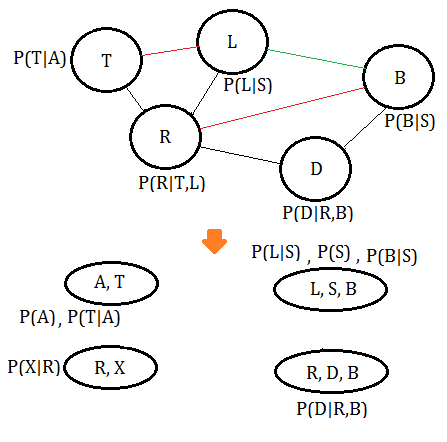
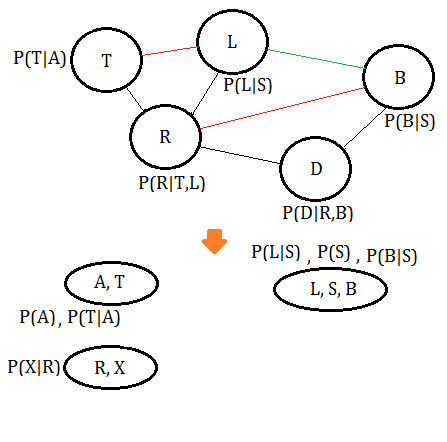
update _posts/2018-10-14-bayesian-ml-clique-tree-construction.md with slight different elimination order, 4

Changed region(s): [[0.6107, 0.7647, 0.8725, 0.9412]]

diff --git a/_posts/2018-10-14-bayesian-ml-clique-tree-construction.md b/_posts/2018-10-14-bayesian-ml-clique-tree-construction.md
@@ -71,7 +71,8 @@ The construction of <font color="Red">clique tree</font> aims at <font color="Re
 >&#10114;eliminate variable $A$, we get the clique $(A,T)$.  
 >&#10115;eliminate variable $S$, we get the clique $(L,S,B)$, where the green line is the new pairwise connection after $S$ has been removed.  
 ![]({{ site.github.repo }}{{ site.baseurl }}/images/pic/2018-10-14-bayesian-ml-clique-tree-construction-slight-diff-e-o-step-4.png "step 4")
->&#10116;
+>&#10116;eliminate variable $B$, we get the clique $(R,L,D,B)$.  
+![]({{ site.github.repo }}{{ site.baseurl }}/images/pic/2018-10-14-bayesian-ml-clique-tree-construction-slight-diff-e-o-step-5.png "step 5")
 
 
 ### Addendum
